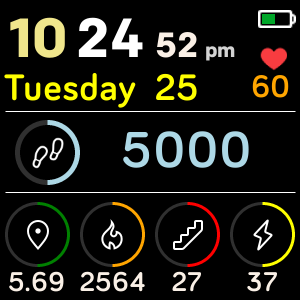
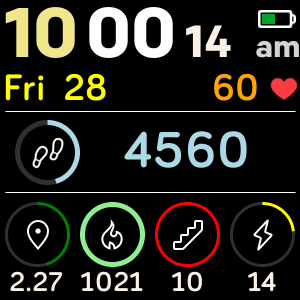
Much larger time and heart rate text with shorter day names

diff --git a/app/index.js b/app/index.js
@@ -20,7 +20,7 @@ let date         = document.getElementById("date");
 let dataTypes     = [ "steps", "distance", "calories",
                       "elevationGain", "activeMinutes" ];
 let dataProgress  = [];
-let days = ["Sunday", "Monday", "Tuesday", "Wednesday", "Thursday", "Friday", "Saturday"];
+let days = ["Sun", "Mon", "Tuey", "Wed", "Thu", "Fri", "Sat"];
 
 let getCurrentDataProgress = function(dataType) {
   let dataContainer = document.getElementById(dataType);
@@ -112,8 +112,10 @@ clock.ontick = evt => {
     clockTextP.text = 'am';
   }
   
+  /*
   clockTextH.text = `${hours}`;
   clockTextM.text = `${mins}`;
+  */
   clockTextS.text = `${secs}`;
 
   let day      = today.getDate();

diff --git a/resources/styles.css b/resources/styles.css
@@ -25,21 +25,21 @@
 .clock-displayH {
   font-family: Colfax-Bold;
   fill: khaki;
-  font-size: 55;
+  font-size: 70;
   text-anchor: end;
 }
 
 .clock-displayM {
   font-family: Colfax-Bold;
   fill: white;
-  font-size: 55;
+  font-size: 70;
   text-anchor: middle;
 }
 
 .clock-displayS {
   font-family: Colfax-Bold;
   fill: linen;
-  font-size: 35;
+  font-size: 45;
   text-anchor: start;
 }
 
@@ -53,7 +53,7 @@
 .clock-display2 {
   font-family: Colfax-Bold;
   fill: lightgrey;
-  font-size: 20;
+  font-size: 30;
   text-anchor: start;
 }
 
@@ -80,5 +80,5 @@
   font-family: Seville-Bold;
   fill: orange;
   font-weight: bold;
-  font-size: 32;
+  font-size: 38;
   }
